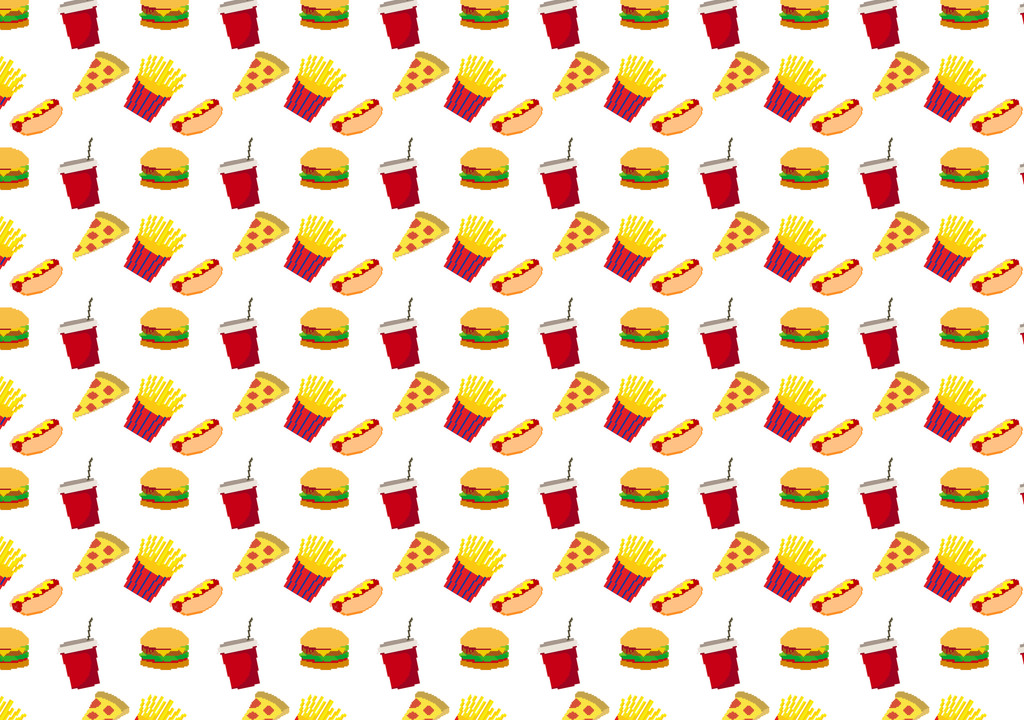
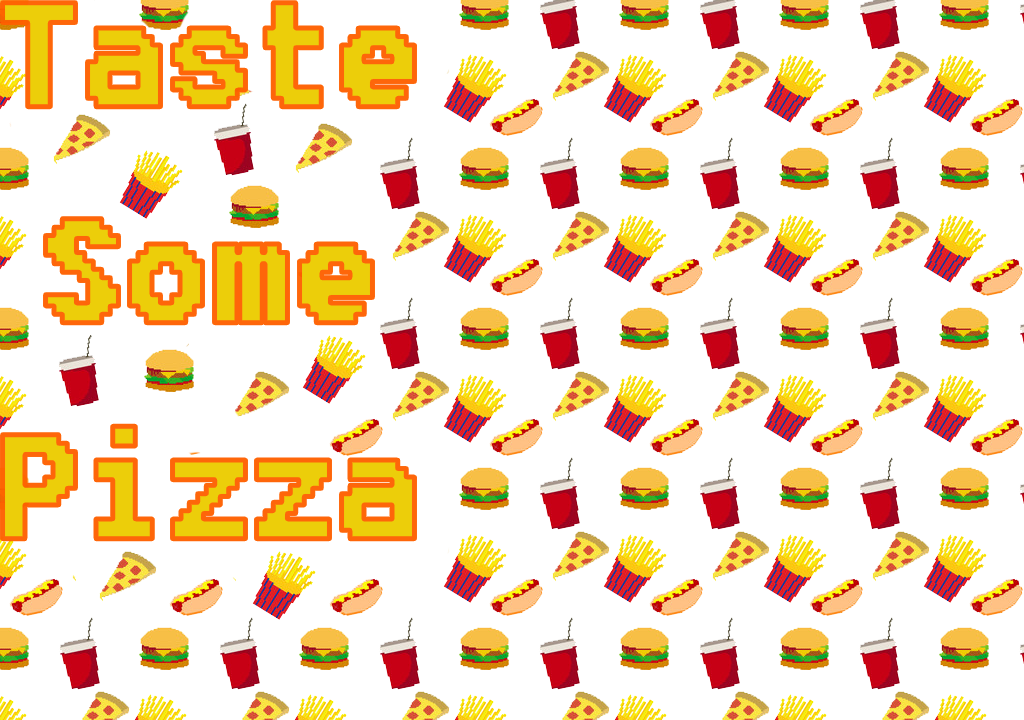
image changée

diff --git a/src/states/MenuState.java b/src/states/MenuState.java
@@ -60,13 +60,10 @@ public class MenuState extends BasicGameState {
         config=GameConfig.getInstance(stateBasedGame);
         buttonsGroup=config.getButtonsGroup();
         try {
-            font=Font.createFont(Font.TRUETYPE_FONT,FileLoader.getInputStream("fly_n_walk.ttf"));
-            font=font.deriveFont(font.getSize()*45f);
-            ttf=new TrueTypeFont(font, true);
             backgroundImage=FileLoader.getImage("interface/bgi.png");
             piz=new SpriteSheet(FileLoader.getSpriteImage("Piz.png"), 256,256);
             buttonsGroup.init(stateBasedGame, gameContainer);
-        } catch (URISyntaxException | FontFormatException | IOException e) {
+        } catch (URISyntaxException | IOException e) {
             e.printStackTrace();
         }
         animPiz= new Animation(piz,75);
@@ -87,10 +84,7 @@ public class MenuState extends BasicGameState {
         g.setColor(Color.white);
         g.drawString("X:"+ x +"\nY:"+ y,0,winHeight-35);
         g.drawString(winWidth+"x"+winHeight, winWidth-73,0);
-        g.setColor(Color.black);
-        g.setFont(ttf);
-        g.drawString("Taste Some Pizza !", winWidth/2-250, 100);
-        animPiz.draw(155,238);
+        animPiz.draw(winWidth-480,winHeight-245);
     }
 
     /**

diff --git a/src/gui/ButtonsGroup.java b/src/gui/ButtonsGroup.java
@@ -36,8 +36,8 @@ public class ButtonsGroup {
 		config=GameConfig.getInstance(game);
 		int winWidth=container.getWidth();
 		int winHeight=container.getHeight();
-		menuButtons.add(new StateButton(FileLoader.getImage("interface/boutonDemarrer.png"), winWidth/2-152,winHeight/2-55,null, "start"));
-		menuButtons.add(new StateButton(FileLoader.getImage("interface/boutonQuitter.png"), winWidth/2-152,winHeight/2+50,null, "quit"));
+		menuButtons.add(new StateButton(FileLoader.getImage("interface/boutonDemarrer.png"), winWidth-280,winHeight-160,null, "start"));
+		menuButtons.add(new StateButton(FileLoader.getImage("interface/boutonQuitter.png"), winWidth-280,winHeight-80,null, "quit"));
 		mainButtons.add(new StateButton(FileLoader.getImage("interface/boutonOrange.png"),winWidth-275,winHeight-78, "Menu principal", "menu"));
 		waveButtons.add(new StateButton(FileLoader.getImage("interface/boutonOrange.png"),winWidth-275,winHeight-78, "Menu principal", "menu"));
 		mainButtons.add(new StateButton(FileLoader.getImage("interface/boutonOrange.png"), winWidth-275, winHeight-156, "Lancer la vague", "wave"));

diff --git a/src/gui/FileLoader.java b/src/gui/FileLoader.java
@@ -30,7 +30,7 @@ public abstract class FileLoader {
      */
     public static String getSoundPath(String resource){
         String path="";
-        path+=Thread.currentThread().getContextClassLoader().getResource("resources"+slash+"sound"+slash+resource).getPath();
+        path+=Thread.currentThread().getContextClassLoader().getResource("resources").getPath()+slash+"sound"+slash+resource;
         return path;
     }
 }

diff --git a/src/gui/Buttons/StateButton.java b/src/gui/Buttons/StateButton.java
@@ -31,6 +31,9 @@ public class StateButton{
         this.text=text;
         this.image=image;
         this.hitbox = new RoundedRectangle(x,y,image.getWidth()+1,image.getHeight()+2,12);
+        if(action.equals("start") | action.equals("quit")){
+            System.out.println(this.image.getWidth()+"x"+this.image.getHeight());
+        }
     }
 
     public void render(Graphics g) {

diff --git a/src/maps/Case.java b/src/maps/Case.java
@@ -70,7 +70,6 @@ public class Case{
 					if (enemy == null && turret == null && config.getEnemy() != null) {
 						try {
 							this.enemy = new Enemy(config.getEnemy(), new Vec(this.x, this.y));
-							System.out.println(this.enemy.getTypeId());
 						} catch (FileNotFoundException | SlickException | URISyntaxException e) {
 							e.printStackTrace();
 						}

diff --git a/src/Main.java b/src/Main.java
@@ -1,5 +1,7 @@
+import gui.FileLoader;
 import org.newdawn.slick.AppGameContainer;
 import org.newdawn.slick.Input;
+import org.newdawn.slick.Music;
 import org.newdawn.slick.SlickException;
 import org.newdawn.slick.state.StateBasedGame;
 import states.GameStates;
